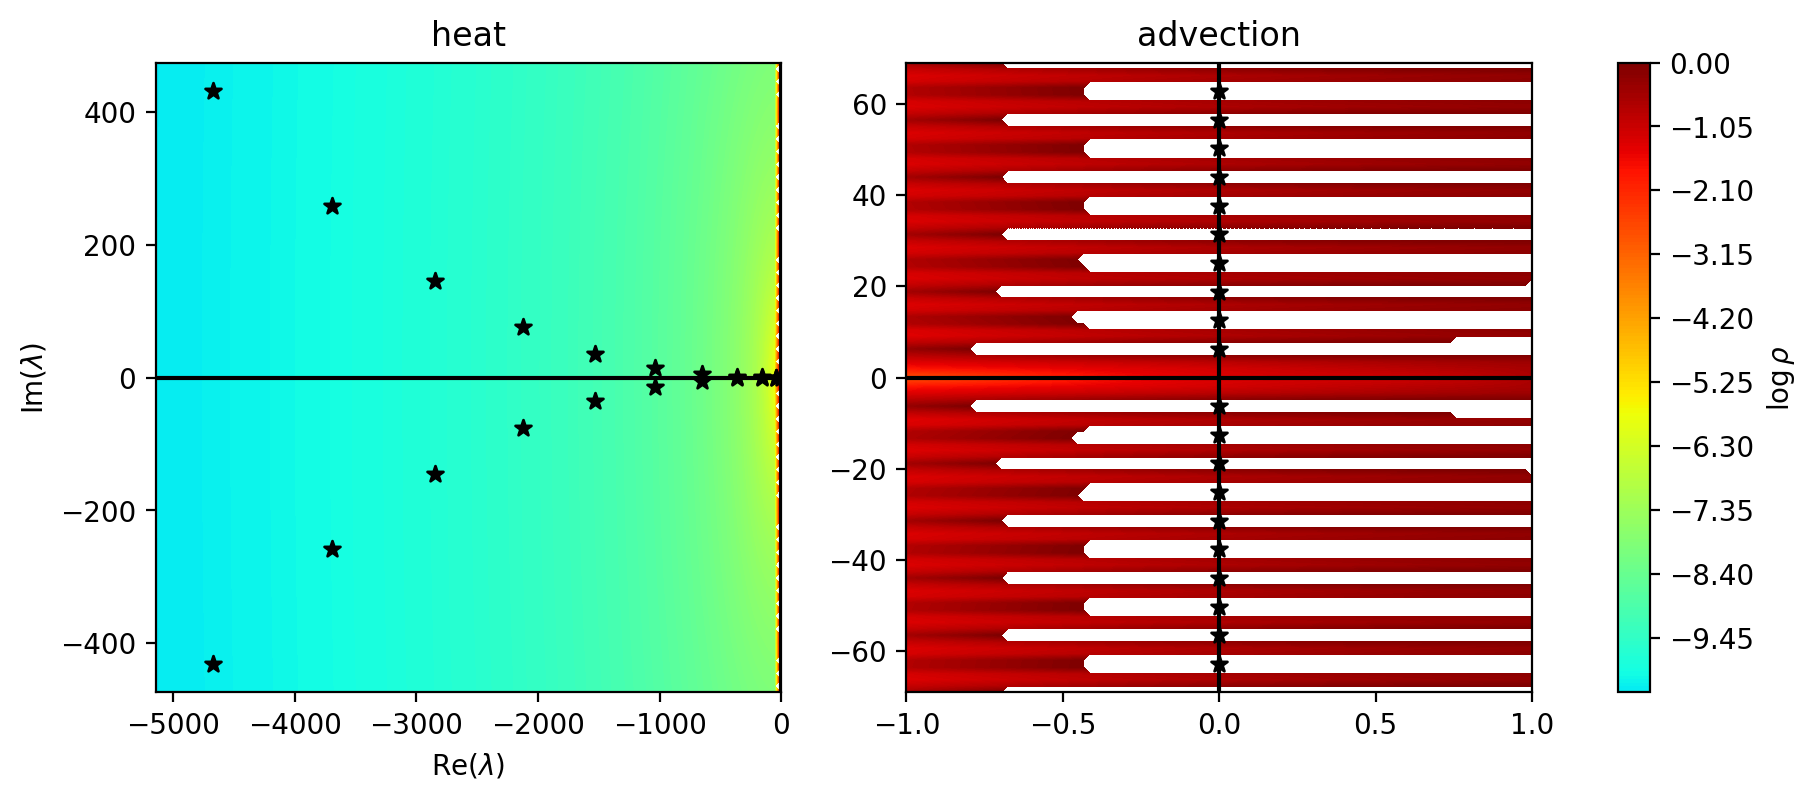
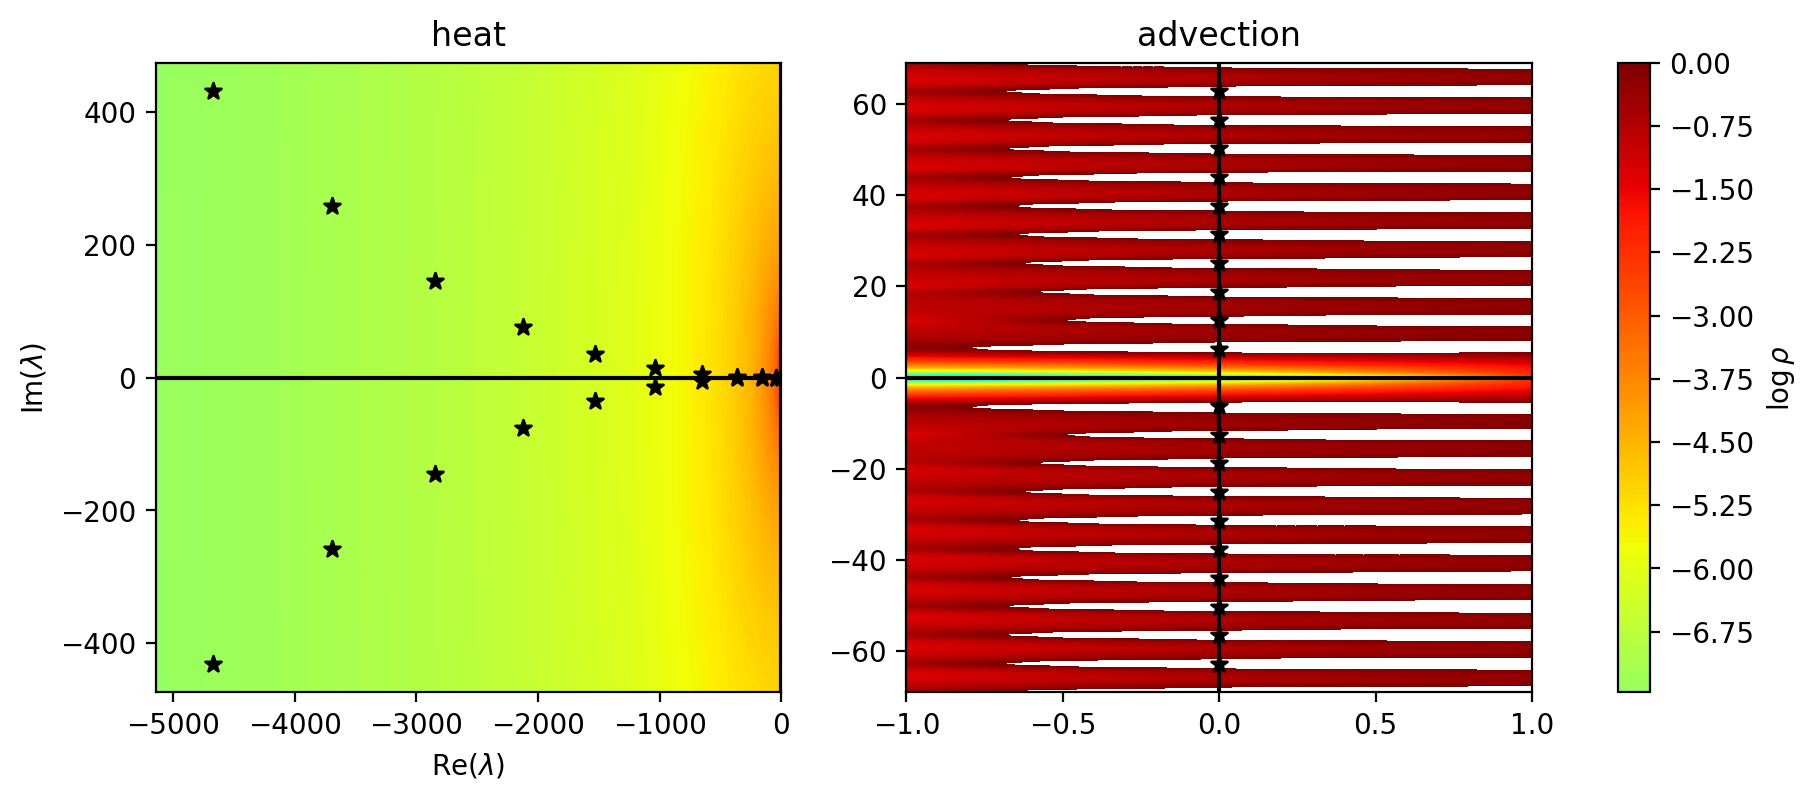
fixed scales in plots

diff --git a/pySDC/playgrounds/Preconditioners/post_processing.py b/pySDC/playgrounds/Preconditioners/post_processing.py
@@ -261,7 +261,7 @@ class PreconPostProcessing:
             real[1] = max([1, real[1]])
             imag[0] = min([-1, imag[0]])
             imag[1] = max([1, imag[1]])
-            self.change_dahlquist_range(re=real, im=imag, res=100, log=False)
+            self.change_dahlquist_range(re=real, im=imag, res=1000, log=False)
 
         # plot the contraction factor
         if ax is None:
@@ -532,8 +532,10 @@ im = postIE.plot_eigenvalues(
     rescale=True,
     ax=axs[0],
     vmin=-16,
+    vmax=0.,
     fig=fig,
     cbar=False,
+    iter=[0, 4],
 )
 postIE.plot_eigenvalues(
     problem='advection',
@@ -542,8 +544,10 @@ postIE.plot_eigenvalues(
     rescale=True,
     ax=axs[1],
     vmin=-16,
+    vmax=0.,
     fig=fig,
     cbar=False,
+    iter=[0, 4],
 )
 axs[0].set_title('heat')
 axs[1].set_title('advection')
@@ -551,5 +555,8 @@ axs[0].set_xlabel(r'Re($\lambda$)')
 axs[0].set_ylabel(r'Im($\lambda$)')
 cb = fig.colorbar(im, ax=axs.ravel().tolist())
 cb.set_label(r'$\log \rho$')
-plt.savefig('data/notes/rho-IE-FD-eigenvals.png', dpi=200, bbox_inches='tight')
+if not active_only:
+    plt.savefig('data/notes/rho-IE-FD-eigenvals.png', dpi=200, bbox_inches='tight')
+else:
+    plt.savefig('data/notes/rho-IE-FD-eigenvals-active.png', dpi=200, bbox_inches='tight')
 plt.show()
